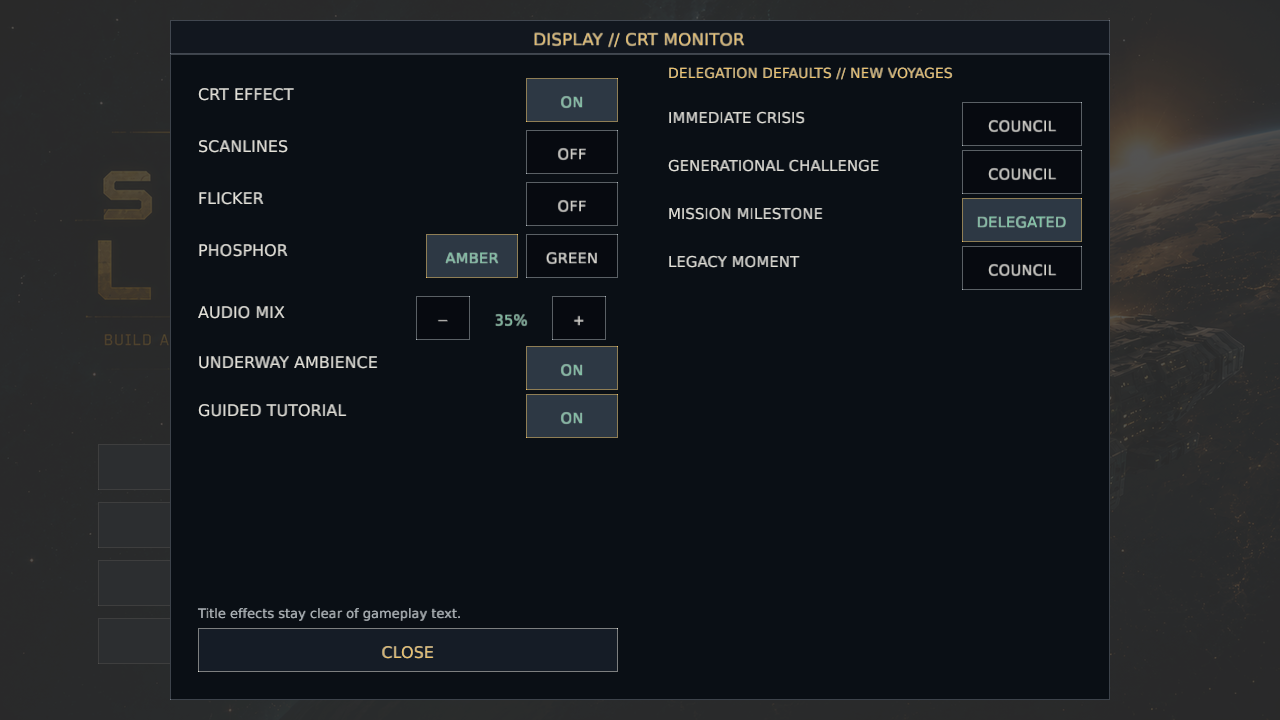
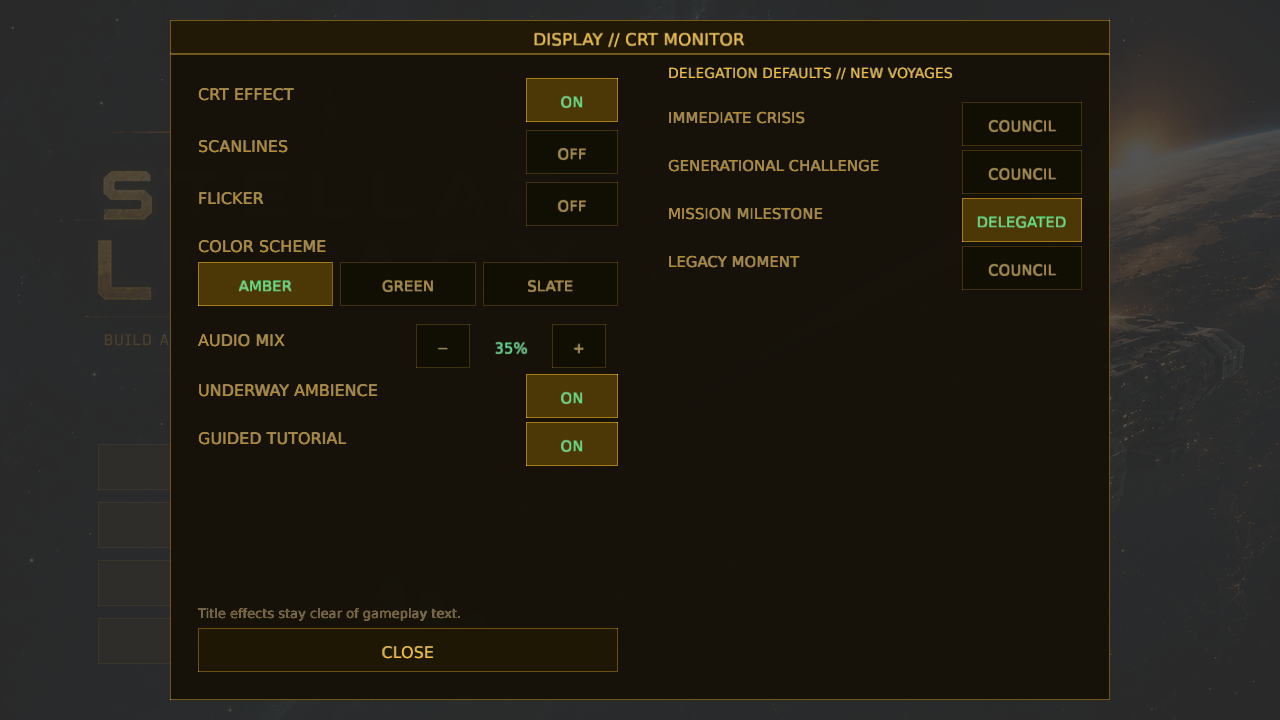
The Custodian chooses the bridge's glow (settings color schemes)
Expose Color scheme in desktop and mobile Settings with Amber, Green, and optional Slate palettes. Preserve existing preferences and the Amber default through the established immediate-apply and persistence path.

Five settings tests passed, including scheme round trips and older preferences. Reviewed desktop and portrait Settings captures. The parameterless publisher passed Windows and WebGL builds, Preview deployment, and packaged rendering checks.

diff --git a/src/ui/term.rs b/src/ui/term.rs
@@ -13,10 +13,11 @@ pub fn set_phosphor(phosphor: Phosphor) {
     PHOSPHOR.with(|cell| cell.set(phosphor));
 }
 
-fn tube(amber: Color, green: Color) -> Color {
+fn tube(amber: Color, green: Color, slate: Color) -> Color {
     match PHOSPHOR.with(Cell::get) {
         Phosphor::Amber => amber,
         Phosphor::Green => green,
+        Phosphor::Slate => slate,
     }
 }
 
@@ -24,6 +25,7 @@ pub fn bg() -> Color {
     tube(
         Color::new(0.015, 0.012, 0.004, 1.0),
         Color::new(0.003, 0.016, 0.006, 1.0),
+        Color::new(0.018, 0.027, 0.045, 1.0),
     )
 }
 
@@ -31,6 +33,7 @@ pub fn panel() -> Color {
     tube(
         Color::new(0.06, 0.047, 0.012, 0.98),
         Color::new(0.015, 0.052, 0.023, 0.98),
+        Color::new(0.040, 0.059, 0.086, 1.0),
     )
 }
 
@@ -38,6 +41,7 @@ pub fn panel_header() -> Color {
     tube(
         Color::new(0.13, 0.095, 0.02, 1.0),
         Color::new(0.03, 0.12, 0.045, 1.0),
+        Color::new(0.072, 0.094, 0.125, 1.0),
     )
 }
 
@@ -45,6 +49,7 @@ pub fn primary() -> Color {
     tube(
         Color::new(1.0, 0.75, 0.14, 1.0),
         Color::new(0.42, 1.0, 0.56, 1.0),
+        Color::new(0.95, 0.77, 0.40, 1.0),
     )
 }
 
@@ -52,6 +57,7 @@ pub fn dim() -> Color {
     tube(
         Color::new(0.74, 0.54, 0.11, 1.0),
         Color::new(0.26, 0.74, 0.38, 1.0),
+        Color::new(0.90, 0.89, 0.85, 1.0),
     )
 }
 
@@ -59,6 +65,7 @@ pub fn faint() -> Color {
     tube(
         Color::new(0.44, 0.32, 0.08, 1.0),
         Color::new(0.14, 0.42, 0.2, 1.0),
+        Color::new(0.68, 0.71, 0.73, 1.0),
     )
 }
 
@@ -67,18 +74,24 @@ pub fn accent() -> Color {
     tube(
         Color::new(0.2, 1.0, 0.5, 1.0),
         Color::new(0.62, 1.0, 0.72, 1.0),
+        Color::new(0.48, 0.81, 0.65, 1.0),
     )
 }
 
 /// Alert red — warm on both tubes so danger still reads on a green screen.
 pub fn alert() -> Color {
-    Color::new(1.0, 0.32, 0.24, 1.0)
+    tube(
+        Color::new(1.0, 0.32, 0.24, 1.0),
+        Color::new(1.0, 0.32, 0.24, 1.0),
+        Color::new(1.0, 0.61, 0.50, 1.0),
+    )
 }
 
 pub fn border() -> Color {
     tube(
         Color::new(0.82, 0.6, 0.14, 0.95),
         Color::new(0.3, 0.8, 0.42, 0.95),
+        Color::new(0.44, 0.47, 0.51, 1.0),
     )
 }
 
@@ -88,6 +101,7 @@ pub fn surface() -> Color {
     tube(
         Color::new(0.12, 0.092, 0.017, 1.0),
         Color::new(0.022, 0.075, 0.034, 1.0),
+        Color::new(0.085, 0.11, 0.15, 1.0),
     )
 }
 
@@ -95,6 +109,7 @@ pub fn surface_hover() -> Color {
     tube(
         Color::new(0.26, 0.19, 0.025, 1.0),
         Color::new(0.05, 0.16, 0.075, 1.0),
+        Color::new(0.14, 0.18, 0.23, 1.0),
     )
 }
 
@@ -102,6 +117,7 @@ pub fn surface_active() -> Color {
     tube(
         Color::new(0.3, 0.22, 0.03, 1.0),
         Color::new(0.06, 0.18, 0.085, 1.0),
+        Color::new(0.18, 0.22, 0.27, 1.0),
     )
 }
 
@@ -109,6 +125,7 @@ pub fn surface_disabled() -> Color {
     tube(
         Color::new(0.05, 0.04, 0.02, 1.0),
         Color::new(0.01, 0.035, 0.016, 1.0),
+        Color::new(0.065, 0.080, 0.10, 1.0),
     )
 }
 
@@ -116,5 +133,6 @@ pub fn surface_inset() -> Color {
     tube(
         Color::new(0.07, 0.055, 0.012, 1.0),
         Color::new(0.014, 0.05, 0.024, 1.0),
+        Color::new(0.028, 0.043, 0.066, 1.0),
     )
 }

diff --git a/src/settings.rs b/src/settings.rs
@@ -50,7 +50,7 @@ pub fn save_delegation(delegation: &DelegationSettings, game_name: &str) -> Resu
     save_json_key(game_name, DELEGATION_KEY, delegation)
 }
 
-/// Phosphor tube color for the CRT overlay.
+/// UI color scheme, stored under the original phosphor preference for compatibility.
 #[derive(Debug, Clone, Copy, PartialEq, Eq, Default, Serialize, Deserialize)]
 pub enum Phosphor {
     /// Warm amber (P3).
@@ -58,6 +58,20 @@ pub enum Phosphor {
     Amber,
     /// Cool green (P1).
     Green,
+    /// Blue-gray panels with neutral, high-contrast prose.
+    Slate,
+}
+
+impl Phosphor {
+    pub const ALL: [Self; 3] = [Self::Amber, Self::Green, Self::Slate];
+
+    pub fn label(self) -> &'static str {
+        match self {
+            Self::Amber => "Amber",
+            Self::Green => "Green",
+            Self::Slate => "Slate",
+        }
+    }
 }
 
 /// User's CRT display preferences. All fields `serde(default)` so older or
@@ -71,7 +85,7 @@ pub struct DisplaySettings {
     pub scanlines: bool,
     /// Apply the subtle whole-screen flicker.
     pub flicker: bool,
-    /// Phosphor tint of the overlay.
+    /// Color scheme for the interface and overlay.
     pub phosphor: Phosphor,
     /// Master mix, deliberately restrained by default.
     pub audio_volume: f32,
@@ -117,6 +131,10 @@ impl DisplaySettings {
         let mut style = match self.phosphor {
             Phosphor::Amber => CrtStyle::amber(),
             Phosphor::Green => CrtStyle::green(),
+            Phosphor::Slate => CrtStyle {
+                tint: macroquad::prelude::Color::new(0.68, 0.78, 0.90, 1.0),
+                ..CrtStyle::amber()
+            },
         };
         // Ease the corner falloff and scanline darkening back from the toolkit
         // presets: the heavy vignette greyed the panels toward the edges and

diff --git a/src/ui/settings.rs b/src/ui/settings.rs
@@ -81,29 +81,24 @@ pub fn draw(
     );
     y += 52.0;
 
-    // Phosphor: two mutually-exclusive choices.
     draw_ui_text_ex(
-        "PHOSPHOR",
+        "COLOR SCHEME",
         content.x,
-        y + 22.0,
+        y + 18.0,
         TextStyle::new(16.0, term::dim()).params(),
     );
-    let bw = 92.0;
-    if choice_button(
-        Rect::new(content.right() - bw * 2.0 - 8.0, y, bw, 44.0),
-        "AMBER",
-        display.phosphor == Phosphor::Amber,
-        pointer,
-    ) {
-        actions.push(DisplayAction::SetPhosphor(Phosphor::Amber));
-    }
-    if choice_button(
-        Rect::new(content.right() - bw, y, bw, 44.0),
-        "GREEN",
-        display.phosphor == Phosphor::Green,
-        pointer,
-    ) {
-        actions.push(DisplayAction::SetPhosphor(Phosphor::Green));
+    y += 28.0;
+    let gap = 8.0;
+    let bw = (content.w - gap * 2.0) / 3.0;
+    for (index, scheme) in Phosphor::ALL.into_iter().enumerate() {
+        if choice_button(
+            Rect::new(content.x + index as f32 * (bw + gap), y, bw, 44.0),
+            &scheme.label().to_uppercase(),
+            display.phosphor == scheme,
+            pointer,
+        ) {
+            actions.push(DisplayAction::SetPhosphor(scheme));
+        }
     }
     y += 62.0;
 

diff --git a/src/settings/tests.rs b/src/settings/tests.rs
@@ -36,3 +36,27 @@ fn partial_json_loads_with_defaults() {
     assert_eq!(s.phosphor, Phosphor::Amber);
     assert!(s.tutorial_enabled);
 }
+
+#[test]
+fn every_color_scheme_survives_a_settings_round_trip() {
+    for phosphor in Phosphor::ALL {
+        let settings = DisplaySettings {
+            phosphor,
+            ..Default::default()
+        };
+        let json = serde_json::to_string(&settings).unwrap();
+        let restored: DisplaySettings = serde_json::from_str(&json).unwrap();
+        assert_eq!(restored, settings);
+    }
+}
+
+#[test]
+fn old_terminal_preferences_keep_their_selected_scheme() {
+    for (json, expected) in [
+        (r#"{"phosphor":"Amber"}"#, Phosphor::Amber),
+        (r#"{"phosphor":"Green"}"#, Phosphor::Green),
+    ] {
+        let settings: DisplaySettings = serde_json::from_str(json).unwrap();
+        assert_eq!(settings.phosphor, expected);
+    }
+}

diff --git a/src/ui/mobile/overlays.rs b/src/ui/mobile/overlays.rs
@@ -73,8 +73,15 @@ pub fn settings(
             action,
         );
     }
-    f.action("Amber identity", true, A::SetPhosphor(Phosphor::Amber));
-    f.action("Green identity", true, A::SetPhosphor(Phosphor::Green));
+    f.heading("Color scheme");
+    for scheme in Phosphor::ALL {
+        let label = if display.phosphor == scheme {
+            format!("{} · selected", scheme.label())
+        } else {
+            format!("{} · tap to apply", scheme.label())
+        };
+        f.action(&label, true, A::SetPhosphor(scheme));
+    }
     f.text(&format!(
         "Audio volume {:.0}%",
         display.audio_volume * 100.0

diff --git a/src/game/capture_scenes.rs b/src/game/capture_scenes.rs
@@ -44,6 +44,12 @@ impl Game {
         self.tutorial_open = false;
         self.abort_confirm.set(false);
         self.display = crate::settings::DisplaySettings::default();
+        let scene = if scene == "settings_slate" {
+            self.display.phosphor = crate::settings::Phosphor::Slate;
+            "settings"
+        } else {
+            scene
+        };
         self.crt_style = self.display.crt_style();
         ui::term::set_phosphor(self.display.phosphor);
         self.delegation_defaults = crate::state::sim::DelegationSettings::default();

diff --git a/docs/ui_redesign_validation.md b/docs/ui_redesign_validation.md
@@ -203,3 +203,6 @@ scripts only; it does not change game rendering or the screenshot matrix.
 
 Restored the pre-readability-update amber/yellow and green phosphor colors across text, panels, borders, and controls at the user's request. The newer fonts and responsive layouts remain in place. Refreshed and visually reviewed the menu, Bridge, and green founding-screen captures, and updated the catalog title-screen thumbnail. The parameterless publisher passed Windows and WebGL builds, Preview deployment, packaged native rendering, and real-browser rendering. All Rust files remain below 800 lines.
 
+## Selectable color schemes
+
+Settings now names the preference Color scheme and offers Amber, Green, and Slate on desktop and mobile. Amber remains the default; Slate restores the blue-gray panels and neutral prose as an optional style. Choices use the existing immediate-apply and save path. Five settings tests passed, including round trips for every scheme and compatibility with existing Amber/Green preferences. Reviewed refreshed desktop Settings, Slate Settings, and 390px portrait Settings captures; all three choices fit as visible touch controls. The parameterless publisher passed Windows/WebGL builds and packaged rendering checks. All Rust files remain below 800 lines.
